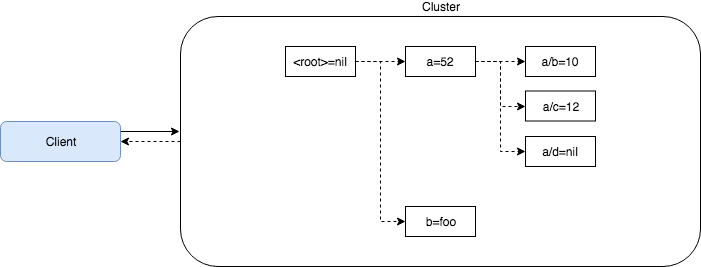
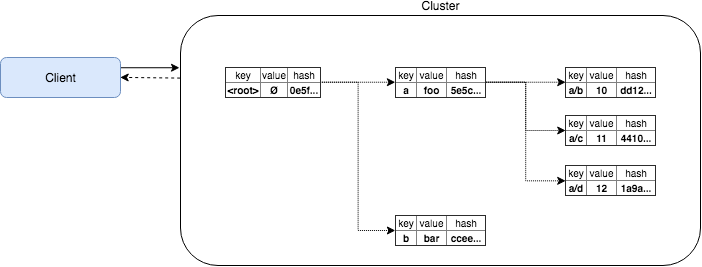
images added, doc fixes

diff --git a/tmdemoapp/docs/TM Demo App.md b/tmdemoapp/docs/TM Demo App.md
@@ -258,7 +258,13 @@ Query processing on the App performed in the following way:
 4. The response containing value, Merkle proof and any other information are sent back to the local TM.
 
 ### Transactions and Merkle hashes
-Examples above demostrate usually a single transaction per block or empty blocks. Note that the App does not recalculate Merkle hashes during `DeliverTx` processing. In case of several transactions per block (when massive broadcasting of multiple transactions via `broadcast_tx_sync` or `broadcast_tx_async` RPCs performed), the App modifies key tree and marks changed paths by clearing Merkle hashes until ABCI `Commit` processing. On `Commit` the App recalculates Merkle hash along changed paths only. Finally the app returns the resulting root Merkle hash to Tendermint and this hash is stored as `app_hash` for corresponding height in the blockchain.
+Examples above demostrate usually a single transaction per block or empty blocks. Note that the App does not recalculate Merkle hashes during `DeliverTx` processing. In case of several transactions per block (when massive broadcasting of multiple transactions via `broadcast_tx_sync` or `broadcast_tx_async` RPCs performed), the App modifies key tree and marks changed paths by clearing Merkle hashes until ABCI `Commit` processing.
+
+![Keys after DeliverTx](keys_delivertx.png)
+
+On `Commit` the App recalculates Merkle hash along changed paths only. Finally the app returns the resulting root Merkle hash to Tendermint and this hash is stored as `app_hash` for corresponding height in the blockchain.
+
+![Keys after Commit](keys_commit.png)
 
 Note that described merkelized structure is just for demo purposes and not self-balanced, it remains efficient only until it the user transactions keep it relatively balanced. Something like [Patricia tree](https://github.com/ethereum/wiki/wiki/Patricia-Tree) should be more appropriate to achieve self-balancing.
 
